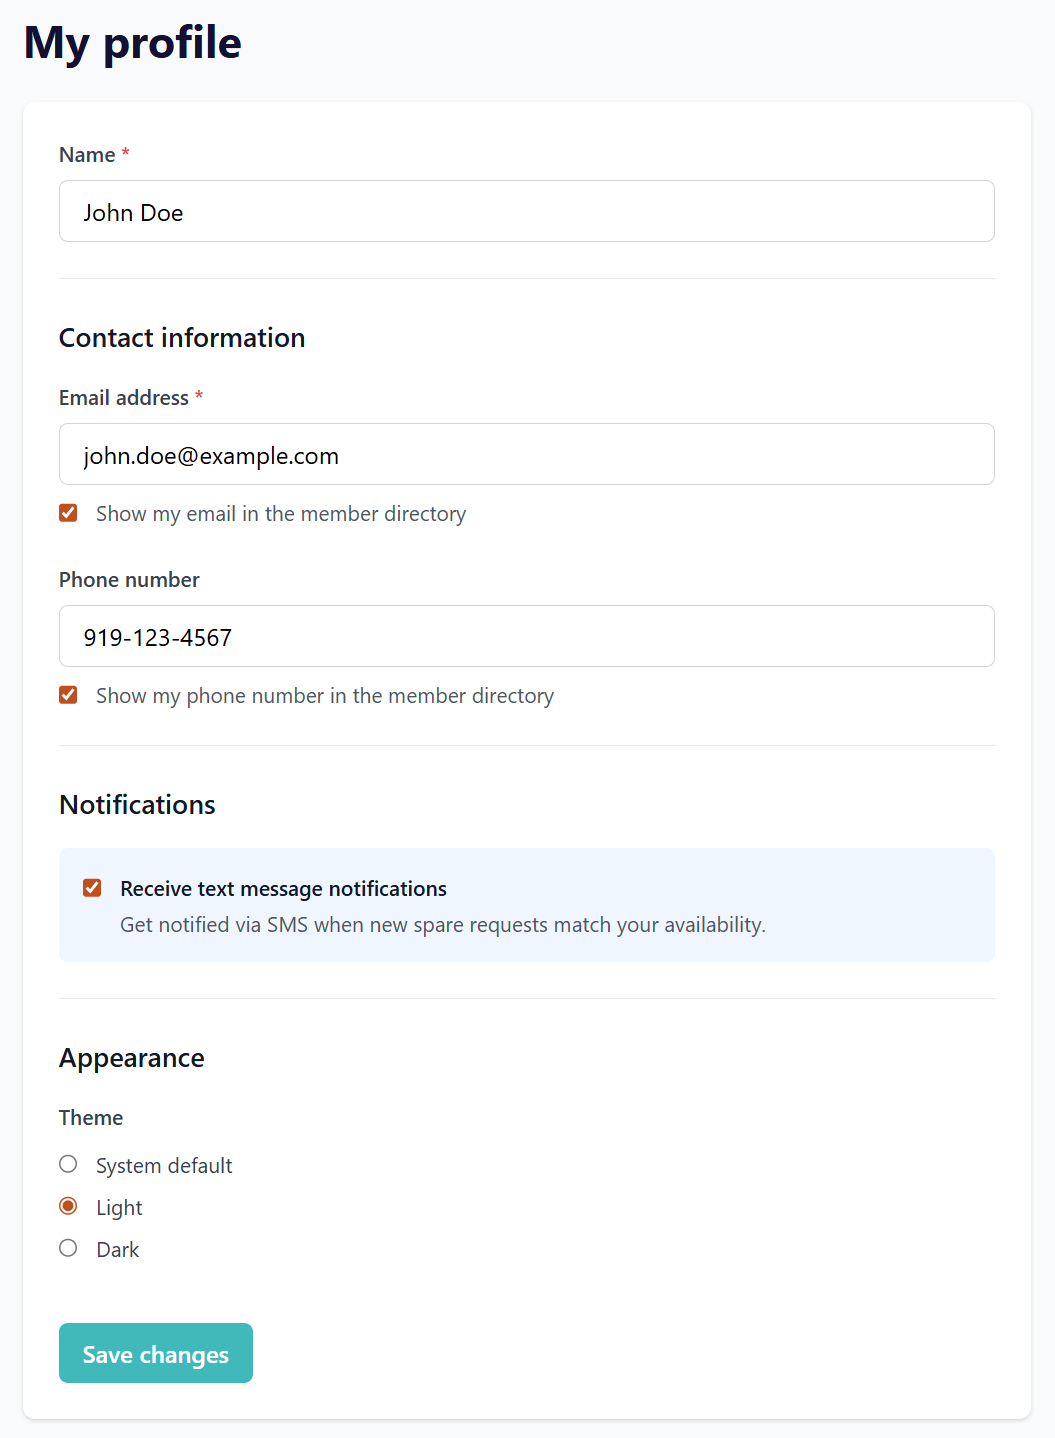
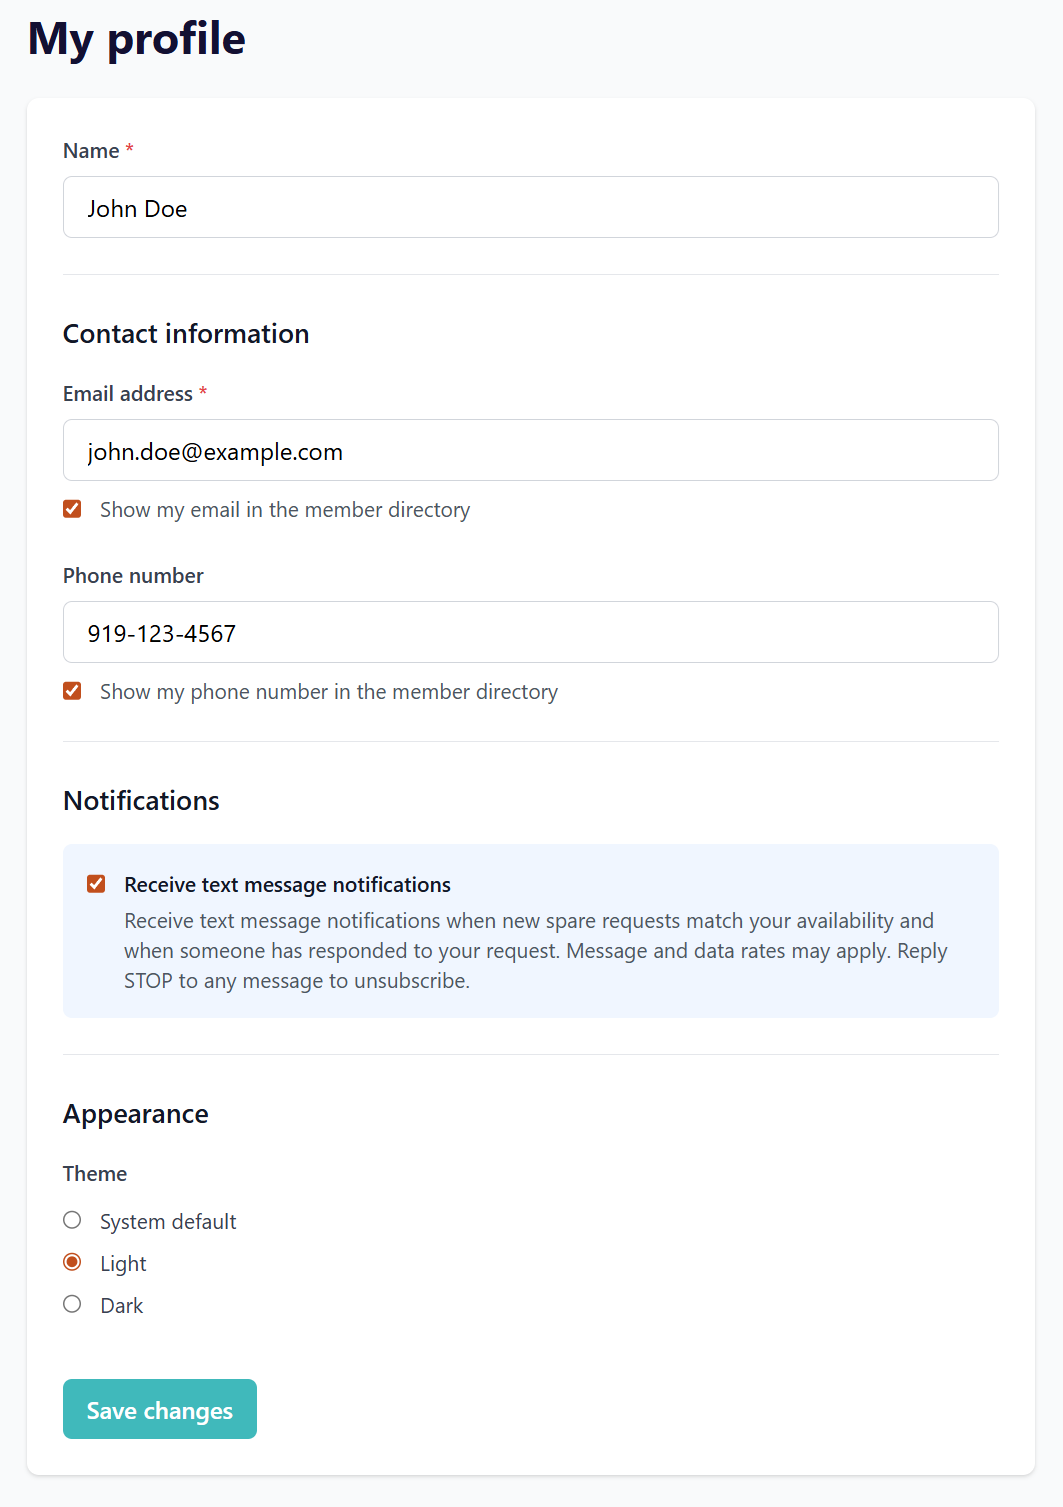
Update SMS opt-in wording.

diff --git a/frontend/src/pages/Profile.tsx b/frontend/src/pages/Profile.tsx
@@ -1,4 +1,4 @@
-import { useState } from 'react';
+import { useState, FormEvent } from 'react';
 import Layout from '../components/Layout';
 import { useAuth } from '../contexts/AuthContext';
 import { useTheme } from '../contexts/ThemeContext';
@@ -19,7 +19,7 @@ export default function Profile() {
   });
   const [message, setMessage] = useState<{ type: 'success' | 'error'; text: string } | null>(null);
 
-  const handleSubmit = async (e: React.FormEvent) => {
+  const handleSubmit = async (e: FormEvent) => {
     e.preventDefault();
     setLoading(true);
     setMessage(null);
@@ -151,7 +151,7 @@ export default function Profile() {
                   <label htmlFor="optedInSms" className="text-sm select-none cursor-pointer">
                     <span className="font-medium text-gray-900 dark:text-gray-100">Receive text message notifications</span>
                     <p className="text-gray-600 dark:text-gray-400 mt-1">
-                      Get notified via SMS when new spare requests match your availability.
+                      Receive text message notifications when new spare requests match your availability and when someone has responded to your request. Message and data rates may apply. Reply STOP to any message to unsubscribe.
                     </p>
                   </label>
                 </div>
